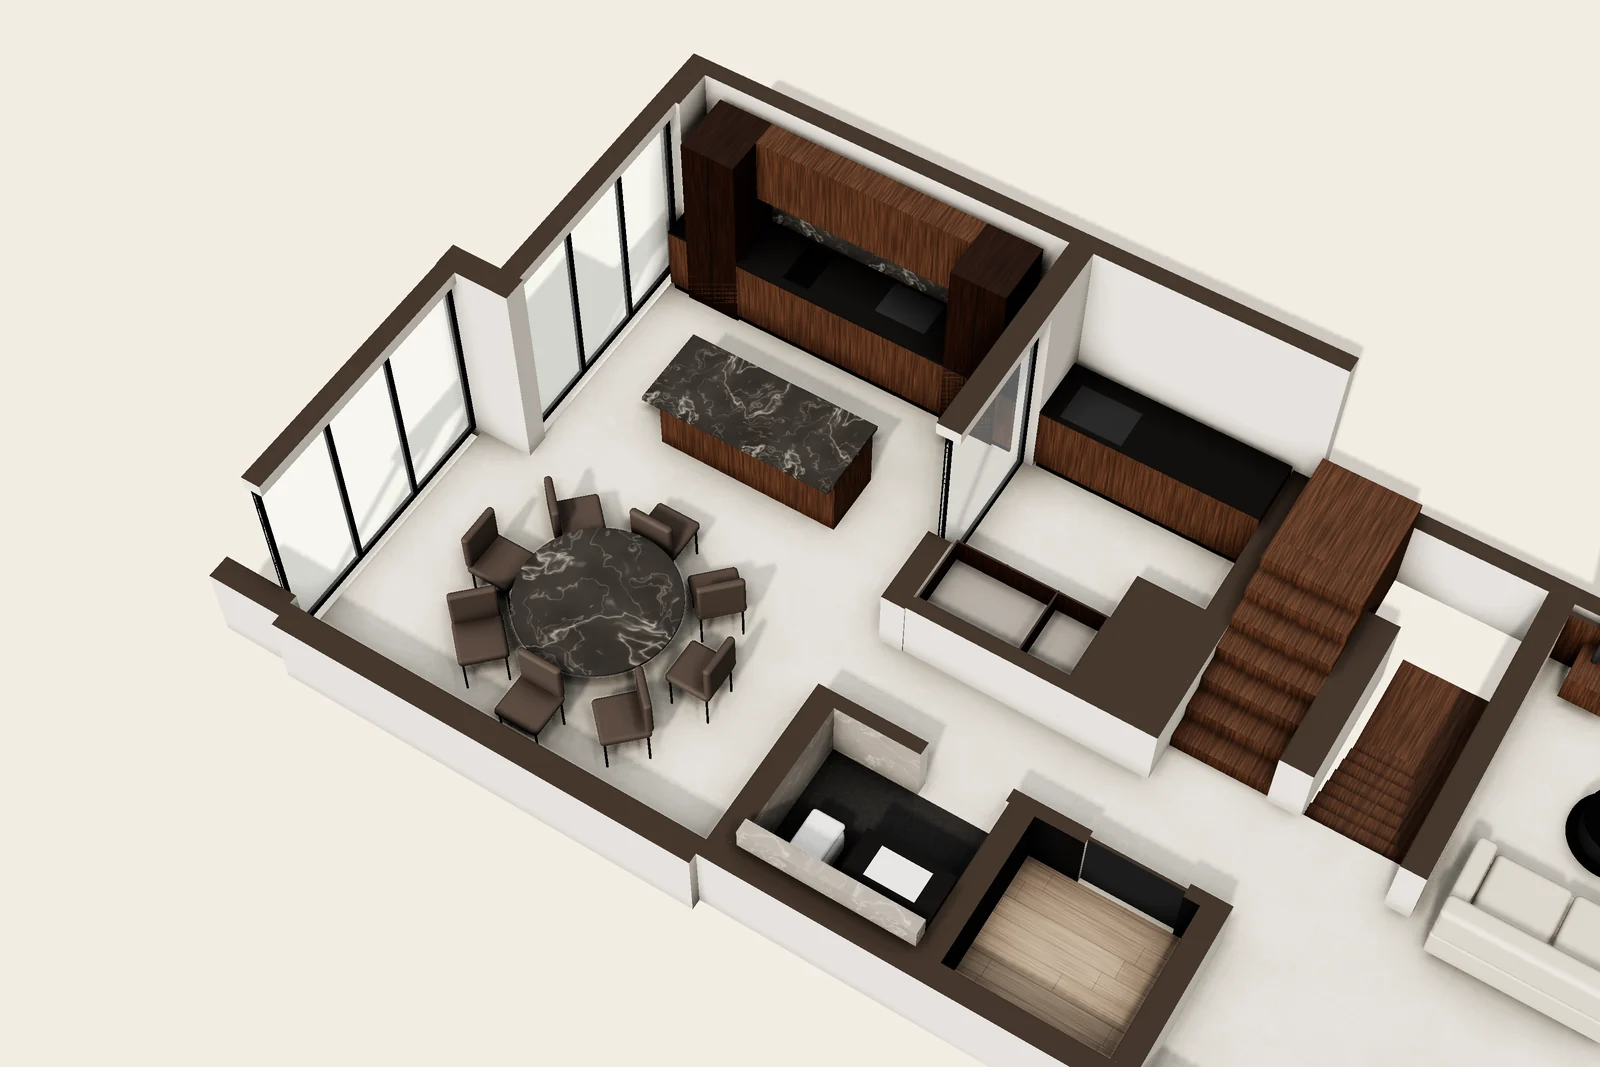
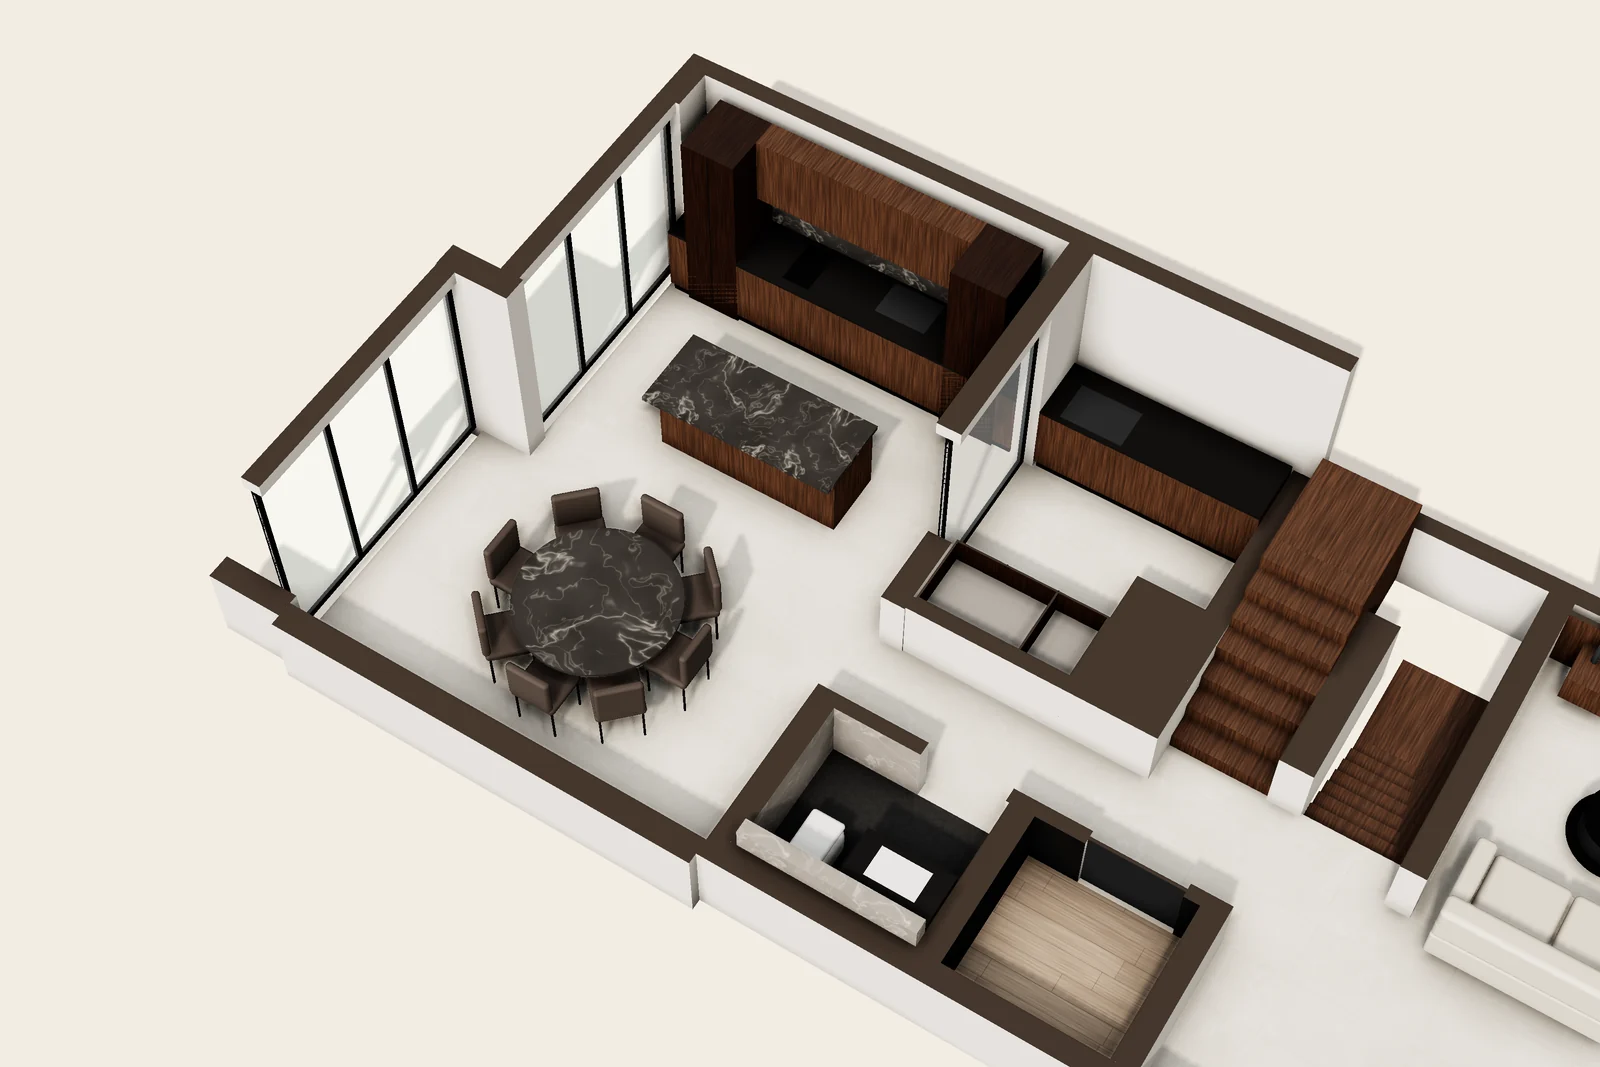
3D: dining chairs pushed in, all facing the table
The chairs' rotation was wrong, so most faced sideways or away from
the table; they now all face it and are tucked in under its edge.

Changed region(s): [[0.25, 0.433, 0.5, 0.7423]]

diff --git a/assets/js/rooms3d.js b/assets/js/rooms3d.js
@@ -1037,11 +1037,11 @@ function floor2(b) {
   b.box(762, 81, 840, 134, 0.86, 0.902, "steel");
   b.wardrobe(742, 330, 933, 420, "n", 2.3);
 
-  // dining: round table for eight
+  // dining: round table for eight, the chairs pushed in, each facing the table
   b.roundTable(450, 606, 95);
   for (let i = 0; i < 8; i++) {
     const a = i * Math.PI / 4;
-    b.chair(450 + Math.cos(a) * 132, 606 + Math.sin(a) * 132, 270 - i * 45);
+    b.chair(450 + Math.cos(a) * 102, 606 + Math.sin(a) * 102, i * 45 - 90);
   }
 
   // powder room
